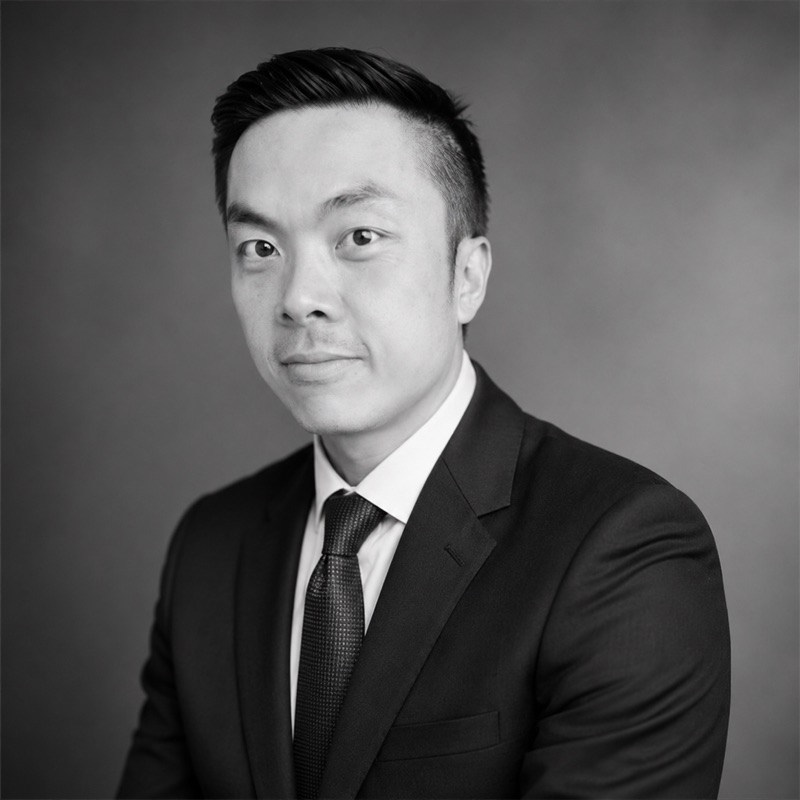
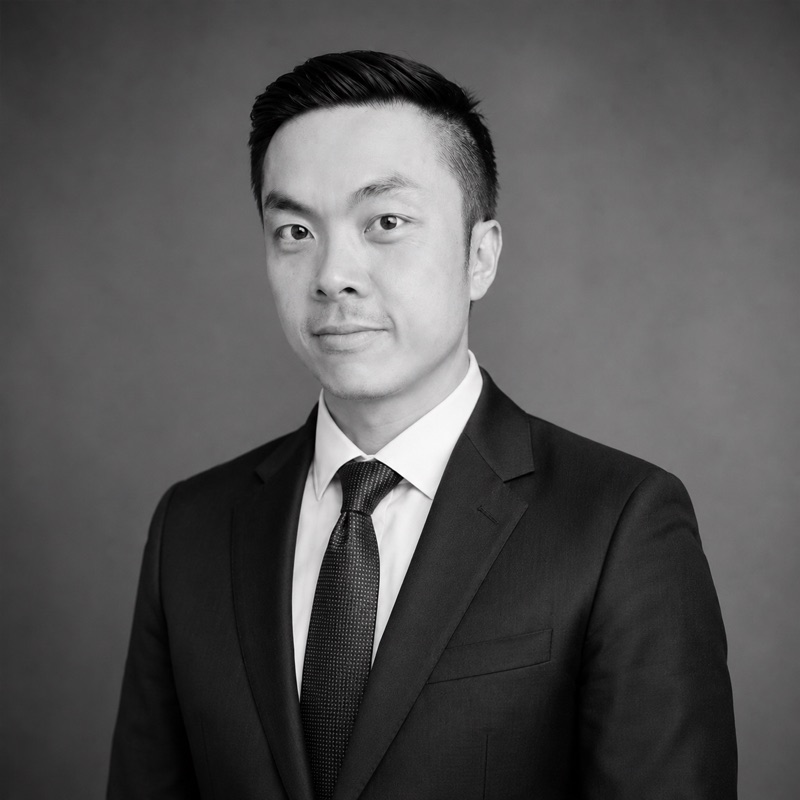
refine(partners): Billy first-name display + new portrait; add Jason Instagram

diff --git a/src/app/(marketing)/partners/partners-data.ts b/src/app/(marketing)/partners/partners-data.ts
@@ -1049,8 +1049,8 @@ export const PARTNERS: Partner[] = [
     kind: "finance",
     draft: true,
     roleLabel: "Lending adviser",
-    name: "Billy Chok",
-    monogram: "BC",
+    name: "Billy",
+    monogram: "B",
     portrait: "/partners/billy-chok/portrait.jpg",
     suburb: "Melbourne",
     state: "VIC",
@@ -1071,7 +1071,7 @@ export const PARTNERS: Partner[] = [
     why: "Billy has seen lending from every seat that matters: broking from 2007, home finance at Westpac, then senior credit analysis at La Trobe Financial, where he was the person an application had to convince. He founded Cloud Financial Group in 2020 to put that whole picture to work for clients, from home loans through construction and development finance. He also develops property himself, so he has carried a construction loan from the borrower's side, and it shows in how he structures one: pre-approvals that hold, drawdowns that land on time, and no surprises at valuation.",
     aboutLabel: "About Billy",
     about:
-      "Billy Chok is the founder of Cloud Financial Group, a Melbourne based advisory arranging residential, commercial and development finance, with insurance alongside, for clients across Australia. His path to broking ran through both sides of the industry: home lending with Westpac, then senior credit analysis with La Trobe Financial, one of Australia's largest non bank lenders. That credit background shapes how the firm works, with applications built the way an assessor reads them, whether the project is a first build, a knockdown rebuild or a multi unit development.",
+      "Billy is the founder of Cloud Financial Group, a Melbourne based advisory arranging residential, commercial and development finance, with insurance alongside, for clients across Australia. His path to broking ran through both sides of the industry: home lending with Westpac, then senior credit analysis with La Trobe Financial, one of Australia's largest non bank lenders. That credit background shapes how the firm works, with applications built the way an assessor reads them, whether the project is a first build, a knockdown rebuild or a multi unit development.",
     facts: {
       basedIn: "Melbourne, VIC",
       serves: "Australia wide",
@@ -1138,6 +1138,7 @@ export const PARTNERS: Partner[] = [
       focus: "Home, investment and SMSF lending",
     },
     website: "https://www.inovayt.com.au",
+    instagram: "https://www.instagram.com/jasonpogorelecfinance/",
     linkedin: "https://www.linkedin.com/in/jason-pogorelec-2278b523/",
     servicesLabel: "Where Jason helps",
     services: [
